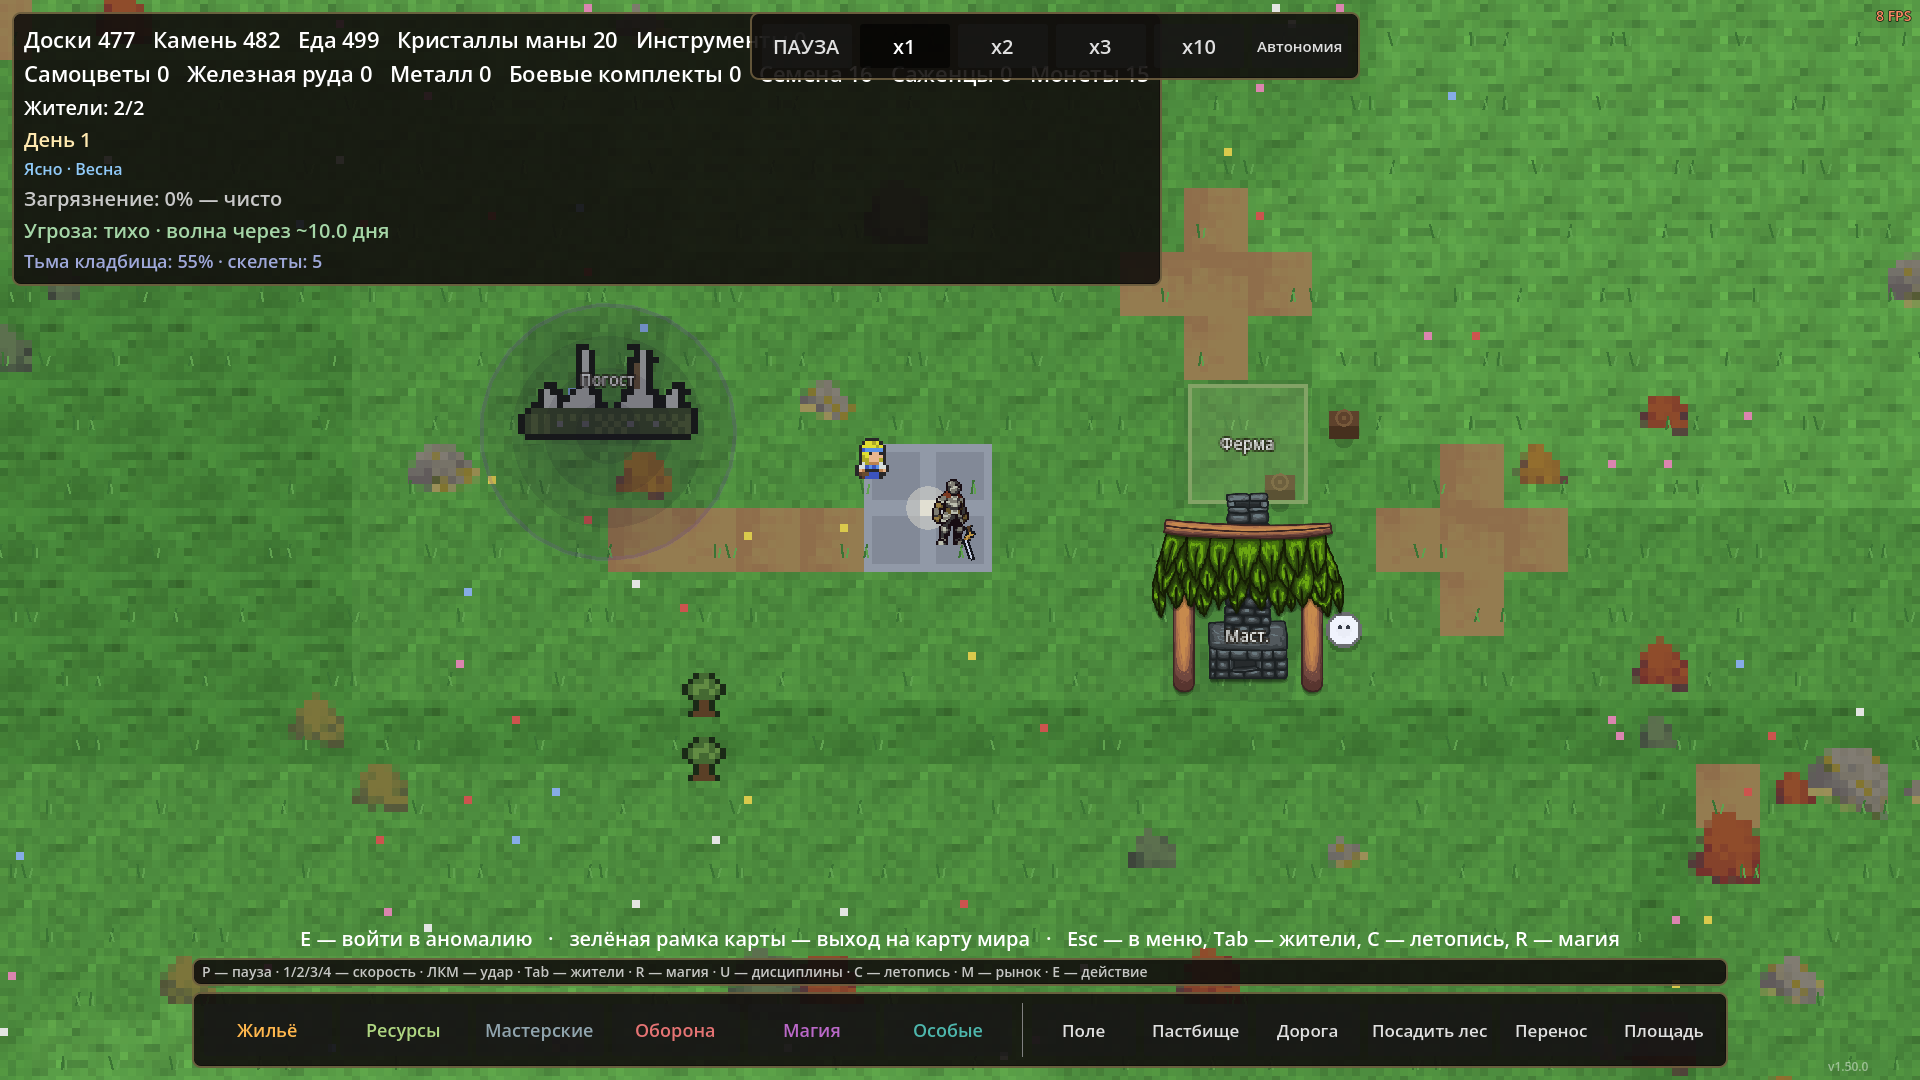
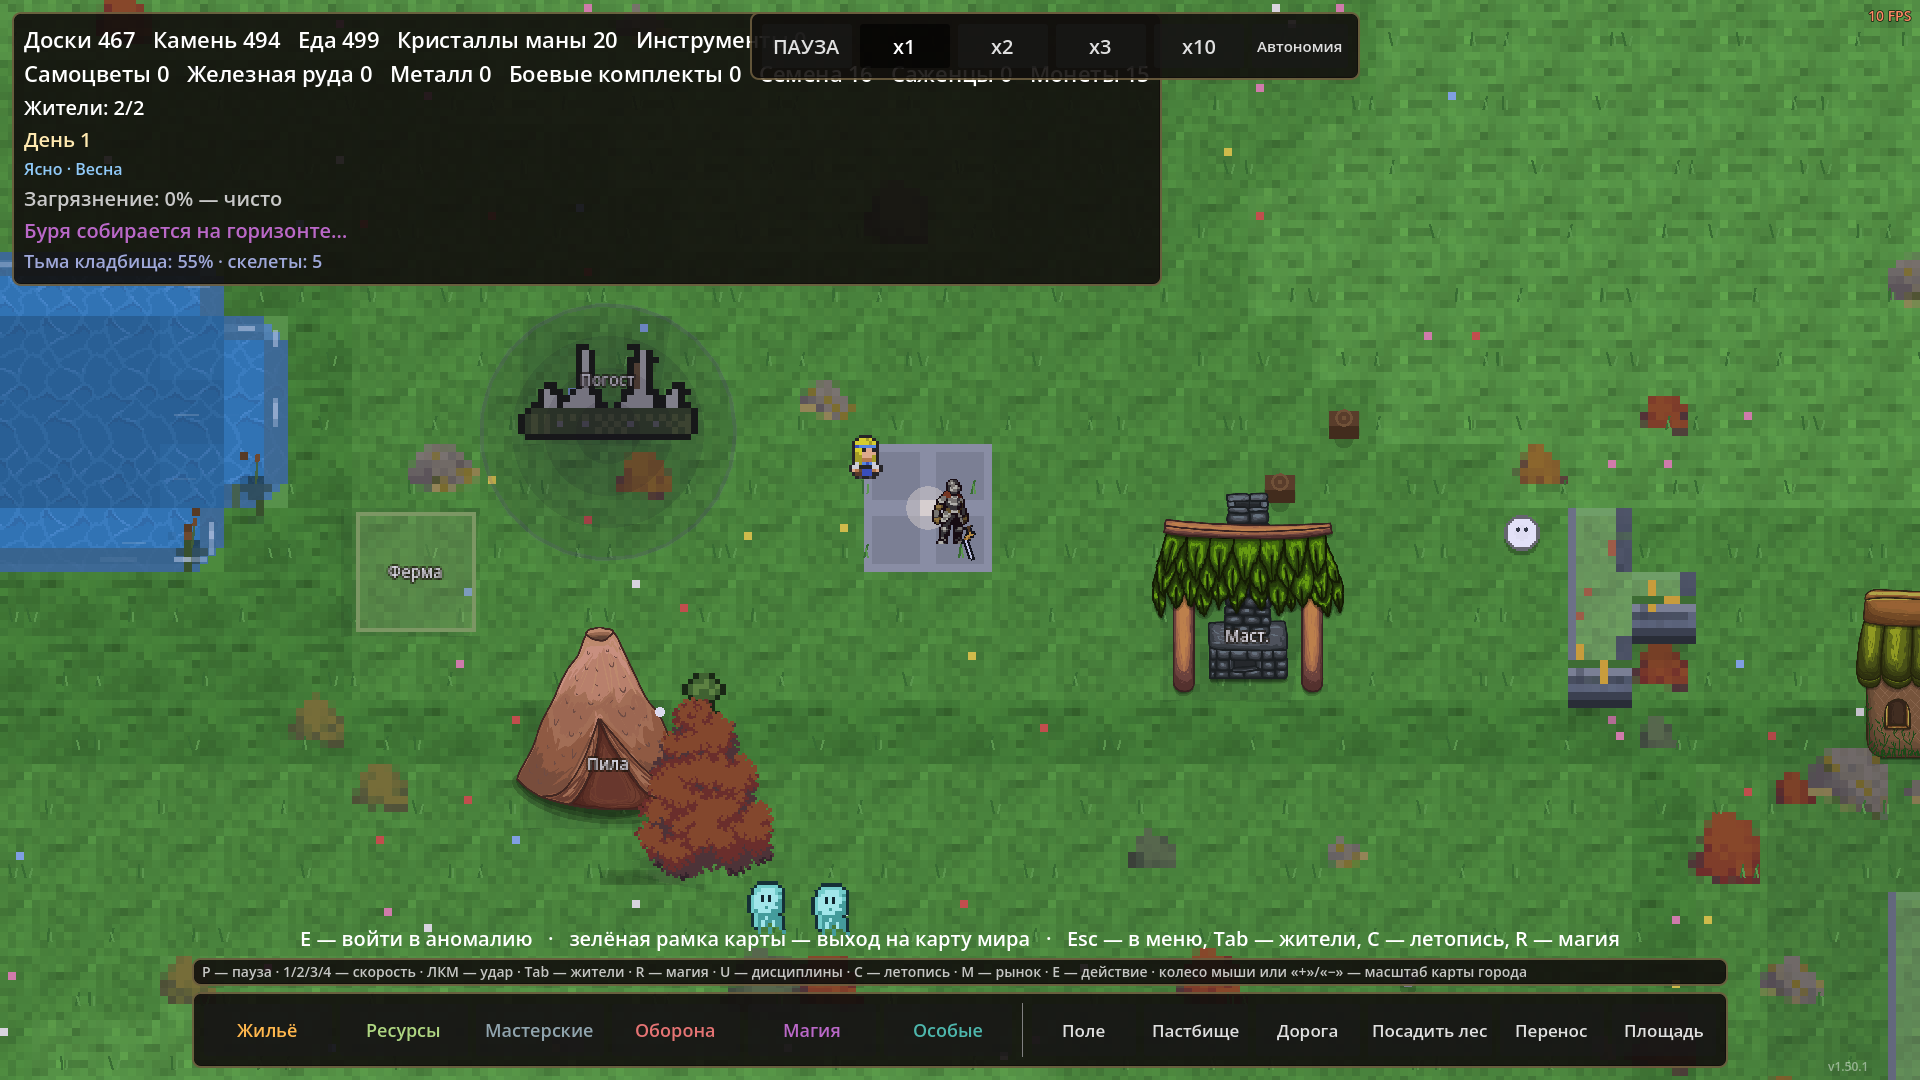
v1.50.2 правки приёмки: коричневые тайлы (земля-проплешины) удалены; масштаб карты города — колесо или «+»/«−» с подсказкой в панели
- земляные проплешины FM убраны целиком: читались артефактами, не землёй
  (fm_dirt-ассеты, отрисовка, кромки — удалены);
- карта города = масштаб вида: колесо мыши (v1.50) + теперь клавиши
  «+»/«−»; подсказка добавлена в панель клавиш (city.keys_bar);
- тест_v150: проверки на принятую траву/воду/подсказку; прогон OK (3709).

diff --git a/CHANGELOG_E2.md b/CHANGELOG_E2.md
@@ -13,6 +13,19 @@
 > «Как устроено сейчас» — дизайн-доки `docs/design/<модуль>.md`.
 > По разделам удобно искать: `grep -n "^## " CHANGELOG_E2.md`.
 
+## v1.50.2 — правки приёмки: коричневые тайлы убраны, масштаб карты — на клавишах (2026-11-05, тем же циклом)
+
+Заказчик: «что за коричневые тайлы? и на какую кнопку карта города?»
+
+1. **Земляные проплешины УДАЛЕНЫ целиком** — коричневые пятна из
+   ForgottenMemories читались артефактами, а не землёй (fm_dirt-ассеты
+   убраны, отрисовка и кромки удалены). Трава — чистая принятая v1.32.
+2. **Карта города — это масштаб вида**: колесо мыши приближает/отдаляет
+   землю (добавлено в v1.50). Теперь и с клавиатуры — «+»/«−», и в панели
+   клавиш внизу появилась подсказка «колесо мыши или «+»/«−» — масштаб
+   карты города».
+Тесты: все зелёные (3709).
+
 ## v1.50.1 — правка приёмки: трава возвращена к принятой (2026-11-05, тем же циклом)
 
 Заказчик: «ЧТО СТАЛО С ЗЕМЛЁЙ? ЗАЧЕМ ТЫ ТАЙЛЫ ПЕРЕДЕЛАЛ?» — FM-тайлы травы

diff --git a/README.md b/README.md
@@ -1,4 +1,4 @@
-# Пепел и Мана — v1.50.1
+# Пепел и Мана — v1.50.2
 
 [![Тесты](https://github.com/SDVGames-Studio/pepel-i-mana/actions/workflows/tests.yml/badge.svg)](https://github.com/SDVGames-Studio/pepel-i-mana/actions/workflows/tests.yml)
 
